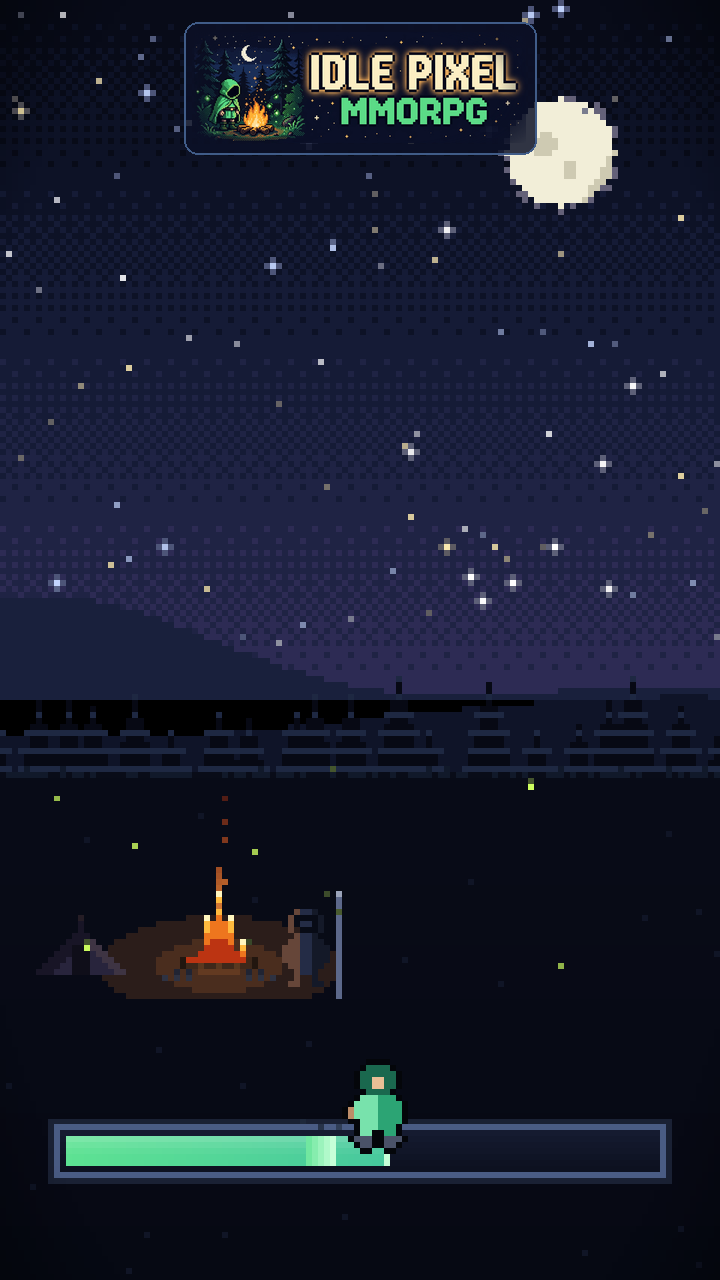
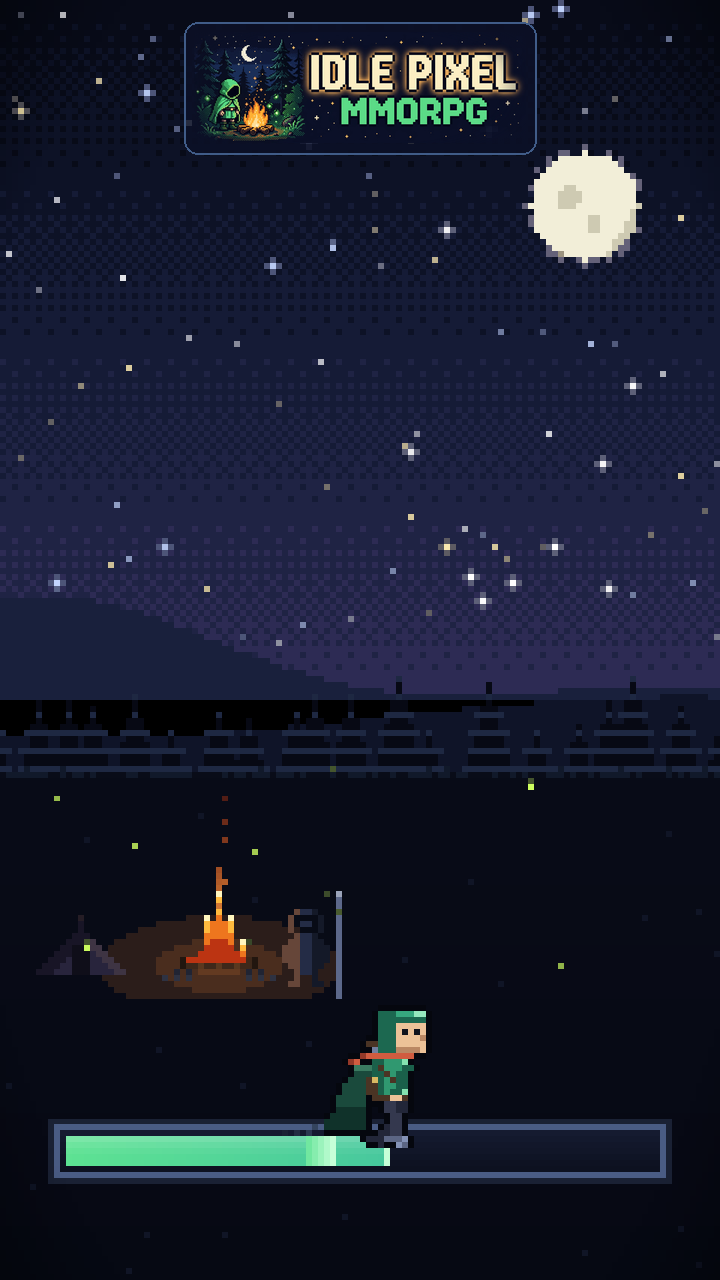
art(client): подтянутый цикл бега, три снимка сцены в CI, ассеты в README

Changed region(s): [[0.7028, 0.0625, 0.8861, 0.2188], [0.4278, 0.7812, 0.6111, 0.9062]]

diff --git a/tools/make_runner.py b/tools/make_runner.py
@@ -52,12 +52,12 @@ EYE = (16, 18, 28, 255)
 # Позы на 6 кадров: (передняя стопа, задняя стопа, колено передней, колено задней,
 #                    просадка корпуса, рука, хвост плаща)
 POSES = [
-    (3, -3, 1, -1, 0, -2, -3),
-    (1, -1, 0, 0, 1, -1, -1),
-    (-2, 3, 0, 1, 0, 1, 1),
-    (-3, 3, -1, 1, 0, 2, 3),
-    (-1, 1, 0, 0, 1, 1, 1),
-    (3, -2, 1, -1, 0, -1, -2),
+    (2, -2, 1, -1, 0, -2, -2),
+    (1, 0, 0, 0, 1, -1, -1),
+    (-1, 2, 0, 1, 0, 1, 1),
+    (-2, 2, -1, 1, 0, 2, 2),
+    (0, 1, 0, 0, 1, 1, 1),
+    (2, -1, 1, -1, 0, -1, -2),
 ]
 
 
@@ -172,8 +172,7 @@ def draw_frame(idx: int) -> Frame:
 
     # ---------- голова: капюшон + лицо ----------
     top = sink
-    lean = 1 if arm < 0 else 0
-    hx = 8 + lean
+    hx = 9  # голова чуть вперёд: бегущий наклоняется в движении
     f.rect(hx, 1 + top, hx + 7, 7 + top, HOOD)          # купол капюшона
     f.rect(hx, 1 + top, hx + 2, 7 + top, HOOD_DARK)     # затылок в тени
     f.rect(hx + 6, 1 + top, hx + 7, 7 + top, HOOD_LIT)  # освещённый край
